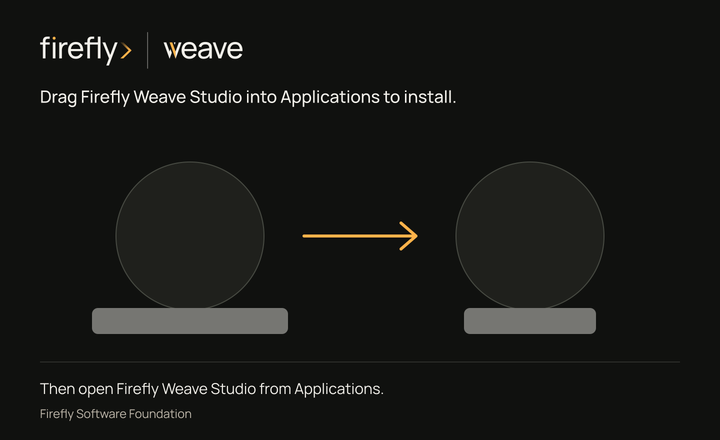
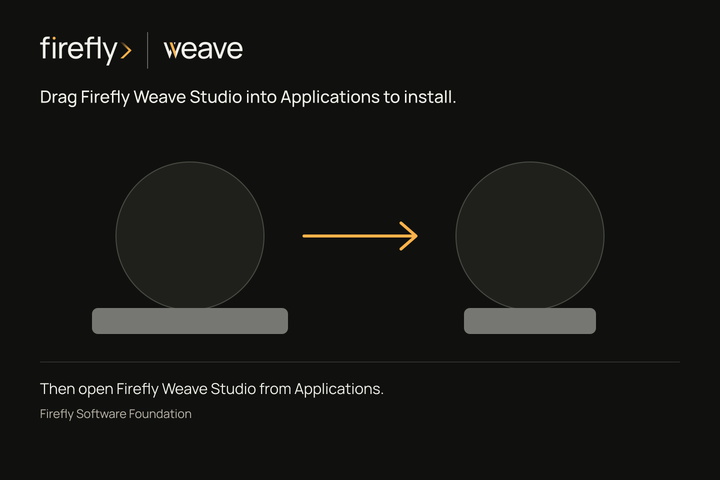
Size the DMG background to the installer window and open the launcher in charcoal

diff --git a/tests/unit/test_brand_artwork.py b/tests/unit/test_brand_artwork.py
@@ -167,8 +167,17 @@ def test_dmg_background_matches_the_tauri_window_and_keeps_labels_readable():
     dmg = json.loads(text_of("desktop/src-tauri/tauri.conf.json"))["bundle"]["macOS"]["dmg"]
     assert dmg["background"] == "../artwork/dmg-background.png"
     root = svg_root("desktop/artwork/dmg-background.svg")
-    assert root.get("viewBox") == "0 0 720 440"
-    assert root.find(f"{SVG}rect").get("fill").upper() == CHARCOAL
+    # Finder draws the picture at 1x from the top left of the window's content area, which is the
+    # window less its title bar. A picture as large as the window leaves no strip of window color.
+    width, height = dmg["windowSize"]["width"], dmg["windowSize"]["height"]
+    assert (root.get("width"), root.get("height"), root.get("viewBox")) == (
+        str(width),
+        str(height),
+        f"0 0 {width} {height}",
+    )
+    ground = root.find(f"{SVG}rect")
+    assert (ground.get("width"), ground.get("height")) == (str(width), str(height))
+    assert ground.get("fill").upper() == CHARCOAL
     drops = {(float(c.get("cx")), float(c.get("cy"))) for c in root.findall(f"{SVG}circle")}
     icons = {(float(dmg[key]["x"]), float(dmg[key]["y"])) for key in ("appPosition", "applicationFolderPosition")}
     assert drops == icons
@@ -176,7 +185,7 @@ def test_dmg_background_matches_the_tauri_window_and_keeps_labels_readable():
     assert sorted(float(p.get("x")) + float(p.get("width")) / 2 for p in plates) == sorted(x for x, _ in icons)
     # Finder draws icon labels black in Light appearance and white in Dark appearance.
     assert contrast(PLATE, "#000000") >= 4.5 and contrast(PLATE, "#FFFFFF") >= 4.5
-    assert png_size((ROOT / "desktop/artwork/dmg-background.png").read_bytes()) == (720, 440)
+    assert png_size((ROOT / "desktop/artwork/dmg-background.png").read_bytes()) == (width, height)
 
 
 def test_social_preview_is_github_sized_and_under_one_megabyte():
@@ -223,7 +232,7 @@ def test_rendered_pngs_show_at_their_pixel_size_without_a_density_chunk(path):
         entries = (struct.unpack("<II", data[14 + 16 * index : 22 + 16 * index]) for index in range(count))
         images = [data[offset : offset + length] for length, offset in entries]
     # The composer renders at 4x or 8x before downscaling; a pHYs chunk would carry that density
-    # and macOS would draw the 720 x 440 DMG background at a quarter of its size.
+    # and macOS would draw the 720 x 480 DMG background at a quarter of its size.
     for image in images:
         assert set(png_chunks(image)) == {"IHDR", "IDAT", "IEND"}, "pixels only: no pHYs, iCCP or eXIf chunk"
 
@@ -249,6 +258,15 @@ def test_tauri_bundles_the_generated_icons():
         "icons/icon.icns",
         "icons/icon.ico",
     ]
+
+
+def test_launcher_window_and_page_are_charcoal_so_opening_does_not_flash_white():
+    # The window paints its own background until the page has loaded; the page then paints the same color.
+    launcher = {
+        window["label"]: window for window in json.loads(text_of("desktop/src-tauri/tauri.conf.json"))["app"]["windows"]
+    }["launcher"]
+    assert launcher["backgroundColor"].upper() == CHARCOAL
+    assert f"background:{launcher['backgroundColor']};" in text_of("desktop/bootstrap/index.html")
 
 
 def test_launch_page_is_charcoal_and_shows_the_lockup():

diff --git a/CHANGELOG.md b/CHANGELOG.md
@@ -45,9 +45,10 @@ SPDX-License-Identifier: Apache-2.0
 - Show the product name, Firefly Weave, at the top of CLI help instead of ASCII
   logo art, and say Weave AI in CLI prompts and in server and worker messages.
   API paths, permissions, roles and error codes keep `lumi`.
-- Give the desktop app the Firefly icon, a charcoal DMG background and a
-  charcoal launch page, and draw exported workflow graphs, the API explorer, the
-  README banner, shields and badges with the Firefly identity.
+- Give the desktop app the Firefly icon, a charcoal DMG background as tall as
+  the installer window, and a charcoal launch page in a charcoal window that
+  opens without a white flash, and draw exported workflow graphs, the API
+  explorer, the README banner, shields and badges with the Firefly identity.
 
 ## 0.1.0a14
 
